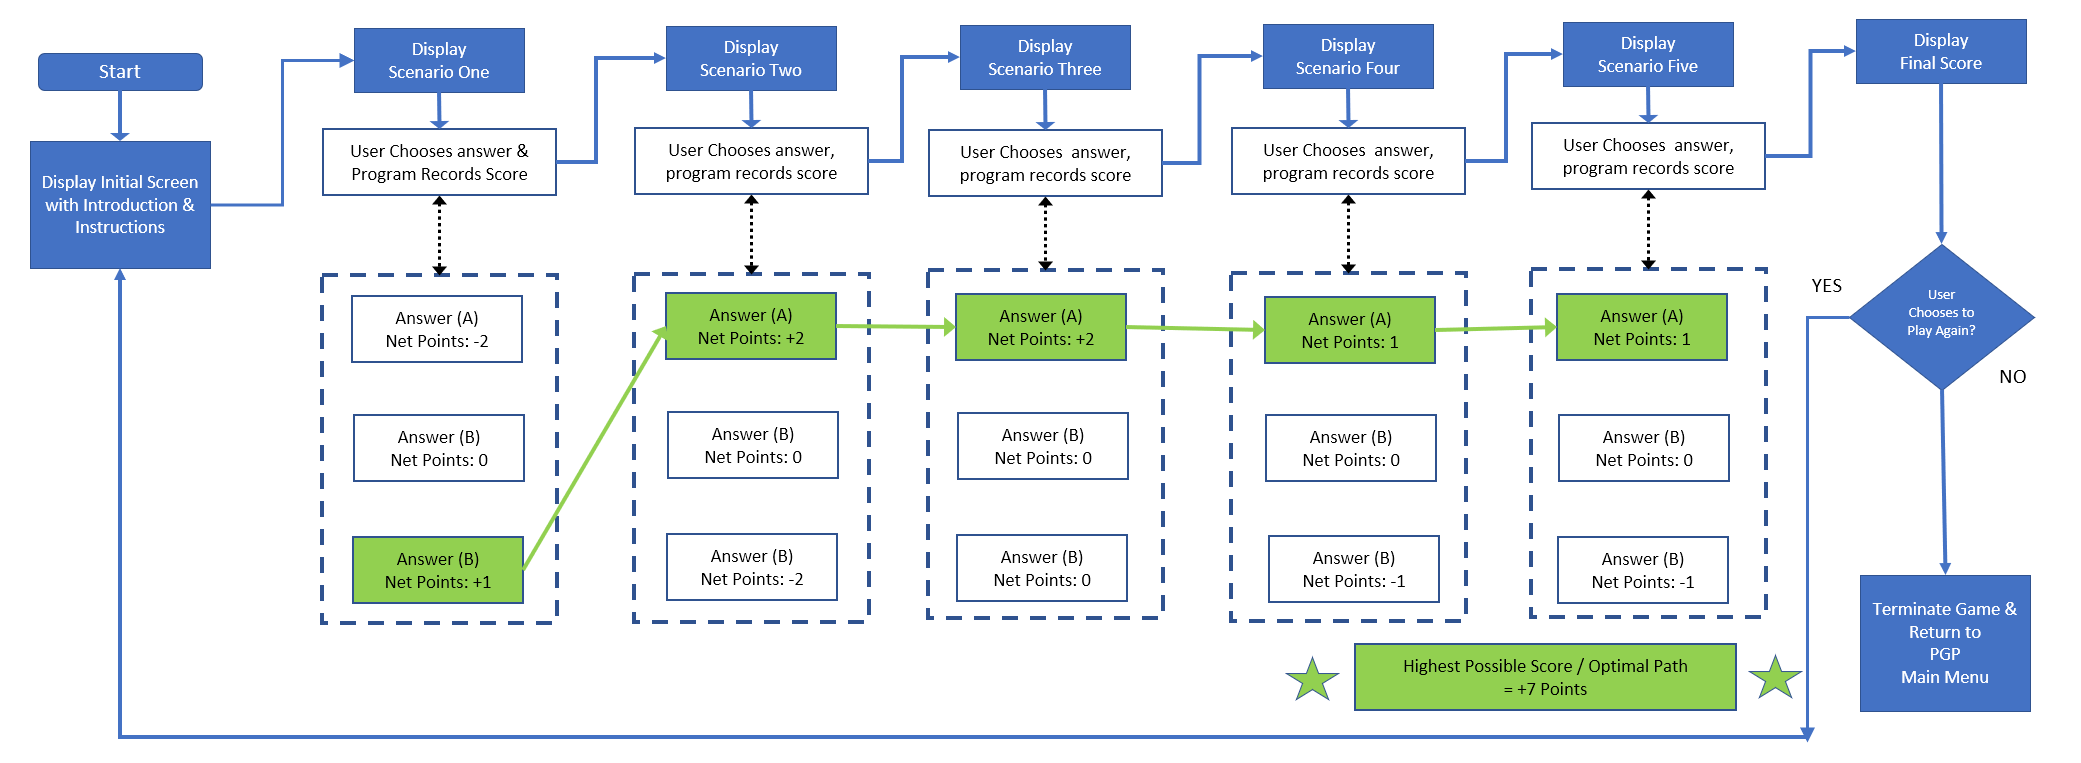
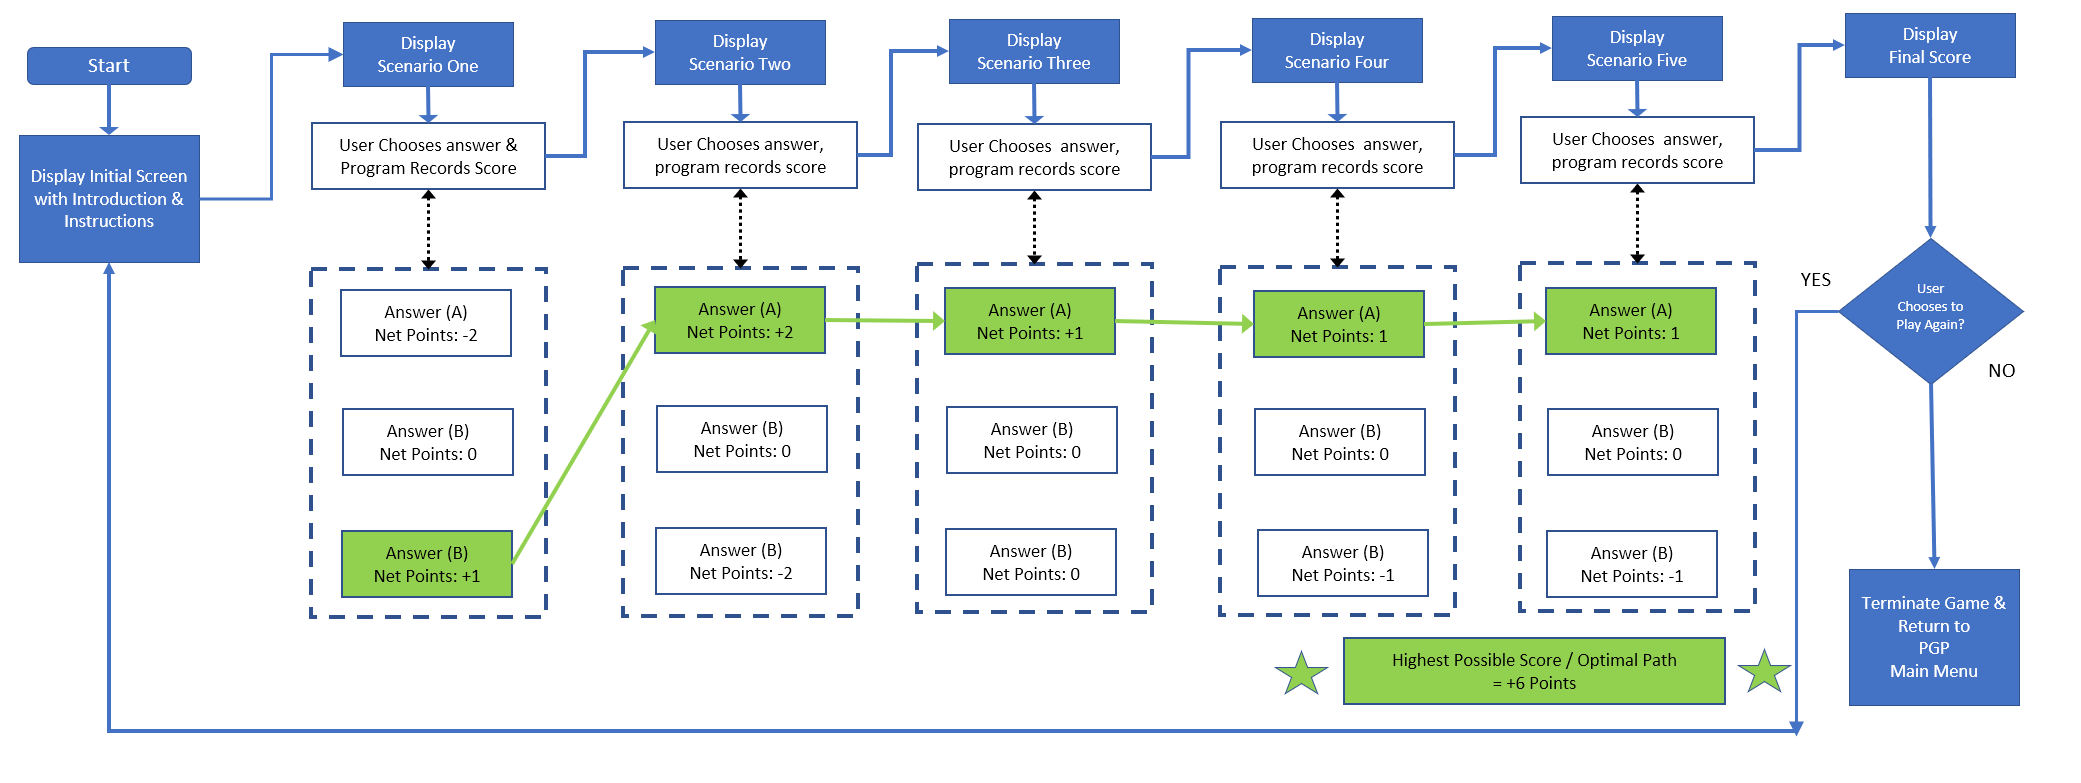
Add scenario/path overview diagram to readme

diff --git a/run.py b/run.py
@@ -574,7 +574,7 @@ def question_2(
         revenue_delta2 = -50000
         # Updated revenue stored in variable revenue2
         revenue2 = revenue1 + revenue_delta2
-        # Costs impact in this scenario is negative €50,000
+        # Costs decrease in this scenario by €50,000
         expense_delta2 = -50000
         # Calculate updated expenses2
         expenses2 = expenses1 + expense_delta2
@@ -706,7 +706,7 @@ def question_3(
         # Calculate scenario's closing profit
         profits3 = revenue3 - expenses3
         # Impact to shareholder sentiment of decision path chosen
-        shareholder_delta3 = shareholder_delta2 + 0
+        shareholder_delta3 = shareholder_delta2 - 1
         # Updated Shareholder section of dashboard
         shareholders3 = \
             "Shareholders:      " + emoji_assignment(shareholder_delta3)
@@ -817,7 +817,7 @@ def question_3(
         revenue_delta3 = 0
         # Updated revenue stored in variable revenue3
         revenue3 = revenue2 + revenue_delta2
-        # Costs impact in this scenario is negative €50,000
+        # Costs decrease in this scenario by €50,000
         expense_delta3 = -50000
         # Calculate updated expenses3
         expenses3 = expenses2 + expense_delta3
@@ -1061,7 +1061,7 @@ def question_4(
         revenue_delta4 = 0
         # Updated revenue stored in variable revenue4
         revenue4 = revenue3 + revenue_delta4
-        # Costs impact in this scenario is negative €50,000
+        # Costs decrease in this scenario by €50,000
         expense_delta4 = -50000
         # Calculate updated expenses4
         expenses4 = expenses3 + expense_delta4
@@ -1239,7 +1239,7 @@ def question_5(
         # Calculate final cumulative score & store in variable below
         final = \
             final_score(shareholder_delta5, customer_delta5, employee_delta5)
-        # Display to user the final cumulative score from this round 
+        # Display to user the final cumulative score from this round
         print(f"\nThis completes the final scenario - you have scored {final}")
         # Add small sleep delay for positive UX
         sleep(0.5)

diff --git a/README.md b/README.md
@@ -60,6 +60,12 @@ Below illustrates the "Worst Case" decision path through the game - if the user 
 
 ![Wireframe](readme/images/fictcorp/worst-case-path.png)
 
+### - Inidividual Scenario/Path Impacts Summary
+
+The final diagram below illustrates the impacts to all financial & stakeholder metrics of each decision path from each scenario throughout the game. In the stakeholder section, the positive impacts on stakeholder sentiment are highlighted in green, with the negative impacts highlighted in red, and the neutral impacts highlighted in grey:
+
+![Wireframe](readme/images/fictcorp/scenario-paths.png)
+
 ## Surface
 Finally, the evolution of the first four Planes of User Experience above allowed the Surface Plane to take shape in terms of arriving at the visual look & feel of the application to be experienced by the User
 
